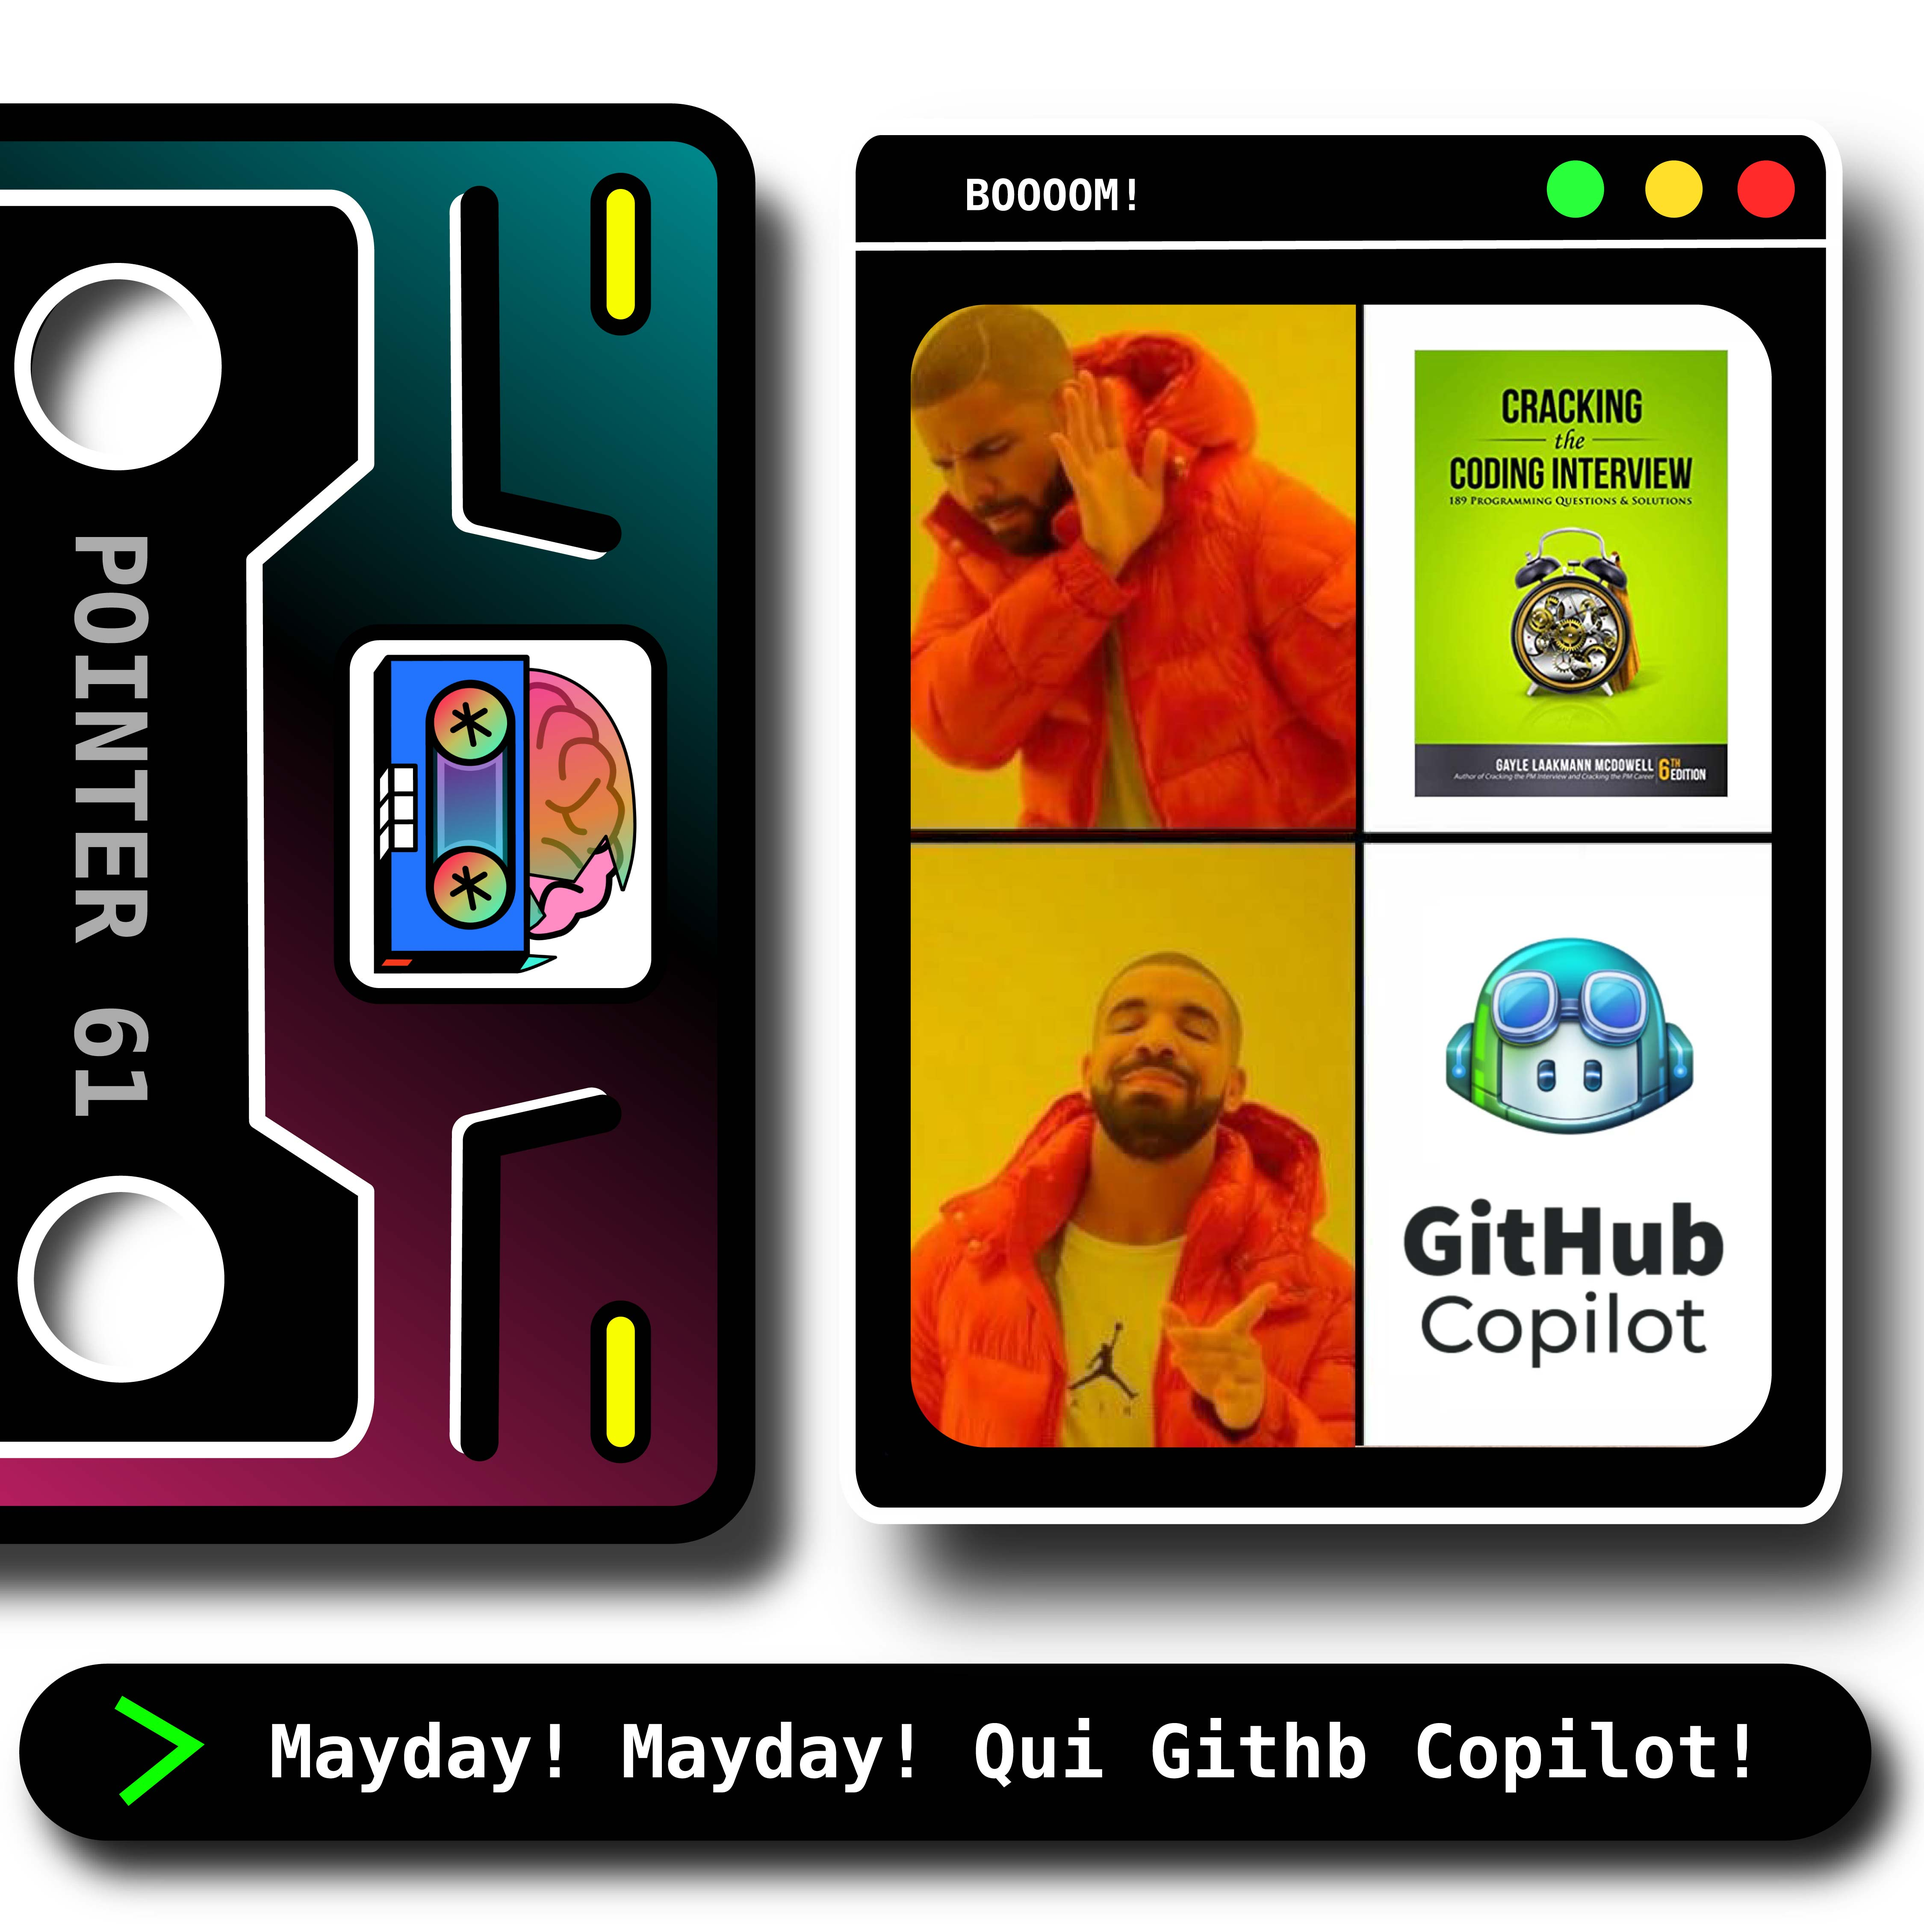
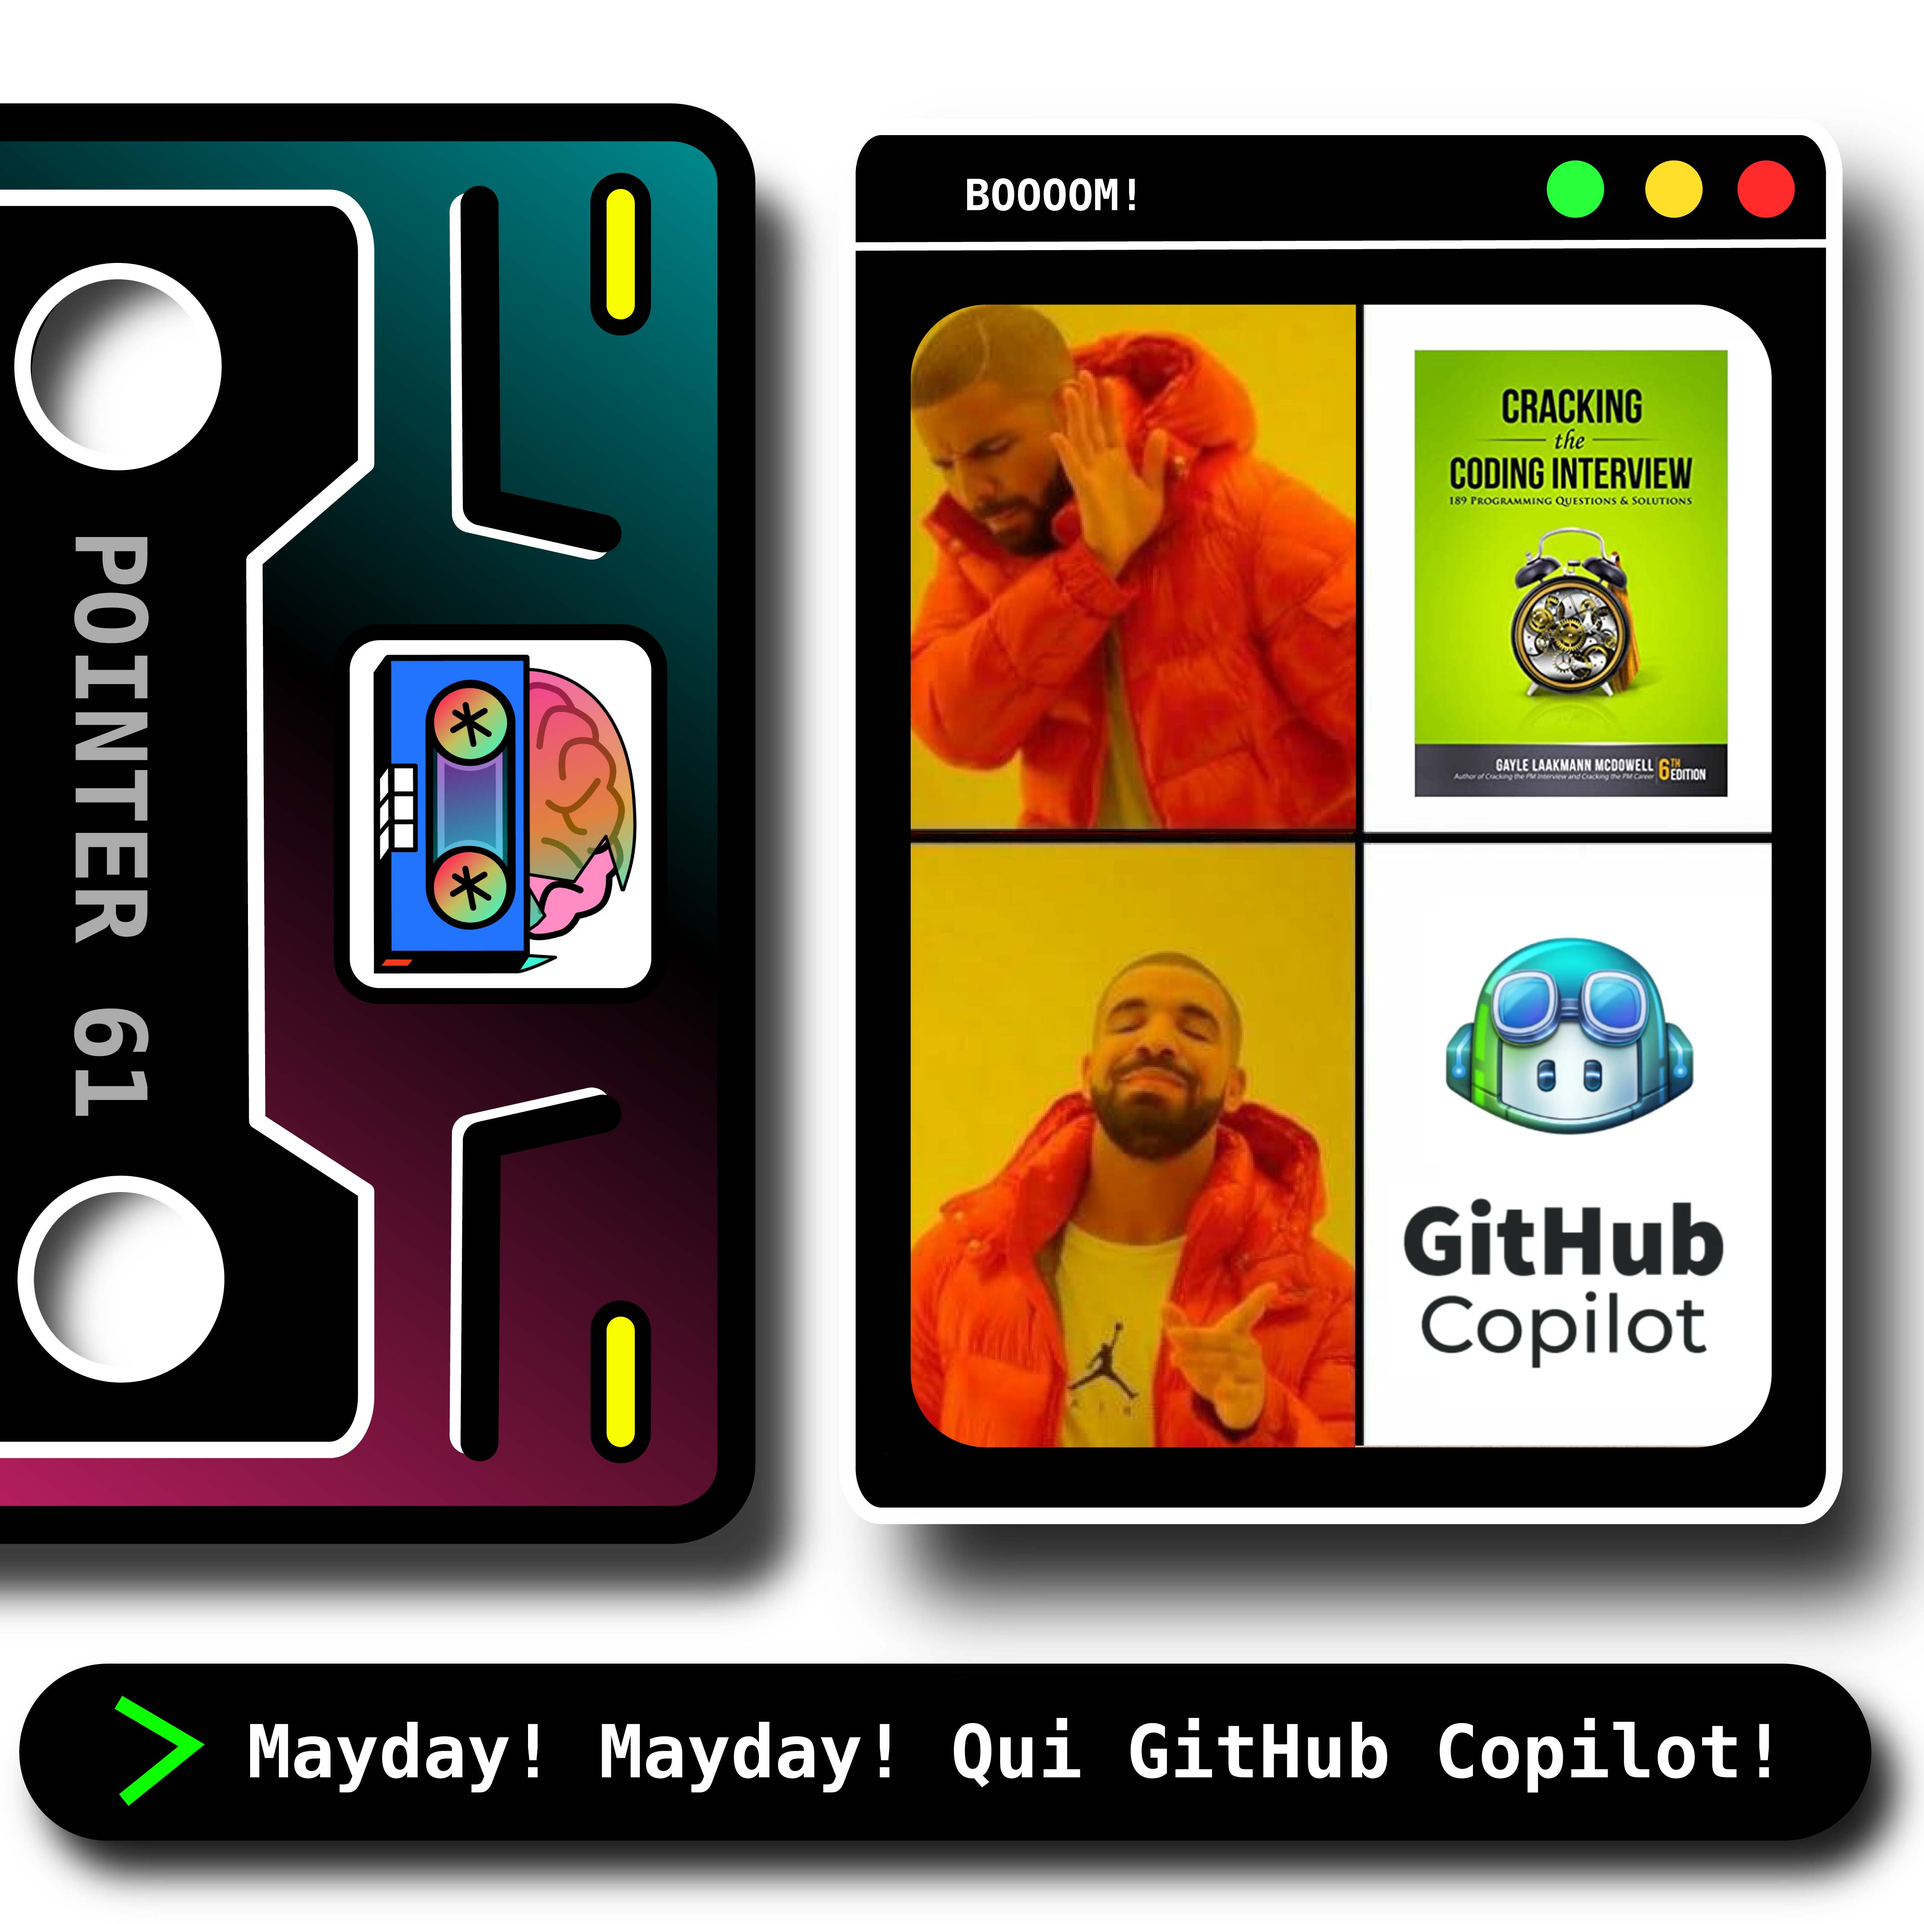
✨ Added episode 61

Changed region(s): [[0.3111, 0.8711, 0.9333, 0.9333], [0.1244, 0.9022, 0.28, 0.9333]]

diff --git a/content/post/61/index.md b/content/post/61/index.md
@@ -1,5 +1,5 @@
 ---
-title: "Pointer[61]: Scappati di casa con Pausa Caffè"
+title: "Pointer[61]: Mayday! Mayday! Qui GitHub Copilot"
 description: "Avrete notato che il PointerPodcast nelle ultime settimane vi ha proposto diverse interviste con vari ospiti.
 Questa settimana invece si ritorna alle origini: ad intrattenervi ci siamo solo noi tre con una puntata “vecchio stile”.
 Per cominciare nel migliore dei modi non potevamo non chiedere ad Eugenio le prime impressioni sul suo ultimo acquisto: la Nintendo Switch. 
@@ -23,6 +23,7 @@ artwork: pp61.jpg
 
 - [Github Copilot]()
 - [The next big thing? Quantum computing’s potential impact on chemicals ](https://www.mckinsey.com/industries/chemicals/our-insights/the-next-big-thing-quantum-computings-potential-impact-on-chemicals)
+- [London Mainnet Announcement](https://blog.ethereum.org/2021/07/15/london-mainnet-announcement/)
 - [Quantum computing market to reach $1 trillion by 2035](https://www.consultancy.uk/news/24361/quantum-computing-market-to-reach-1-trillion-by-2035)
 - [Il talk di Alessandro al Codemotion](https://talks.codemotion.com/quantum-computing-from-zero-to-classific?view=true)
 - [Il talk di Alessandro su DevMy](https://www.youtube.com/watch?v=UcfmZ8Hd6Hs)
